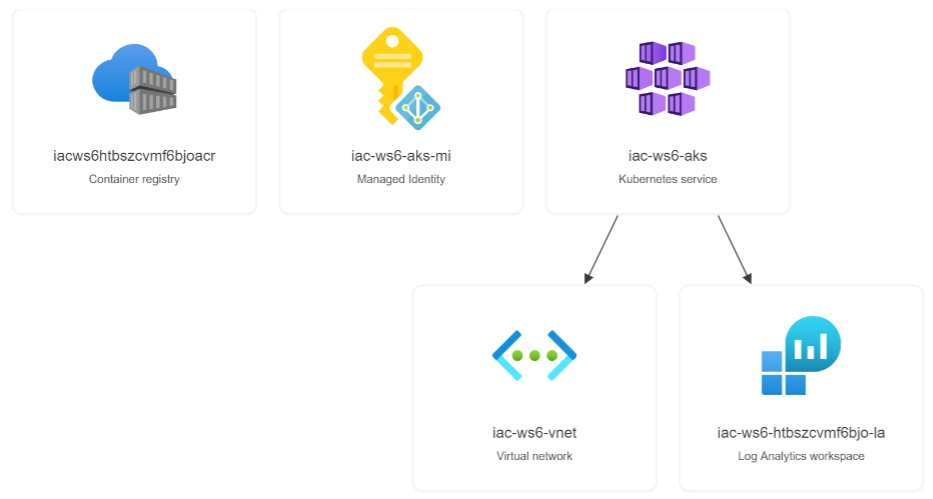
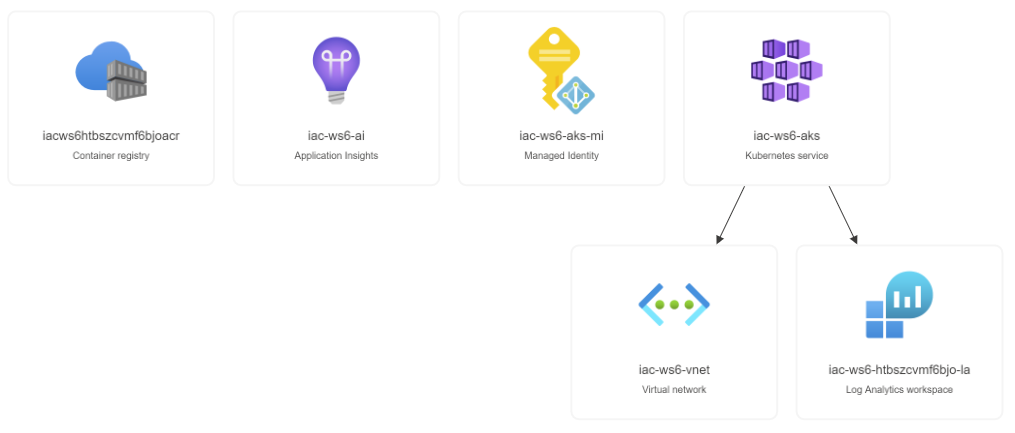
testing embedd youtube video

diff --git a/06-monitoring-options-in-aks/labs/lab-03/readme.md b/06-monitoring-options-in-aks/labs/lab-03/readme.md
@@ -1,18 +1,26 @@
 # lab-03 - monitoring AKS with Azure Monitor
 
 
+![container-insights](https://docs.microsoft.com/en-us/azure/azure-monitor/containers/media/container-insights-overview/azmon-containers-architecture-01.png)
 
 ## Goals
 
 * 
 
-## Task #1 - 
+## Task #1 (optional) - watch `How to monitor Kubernetes workloads with Azure Monitor for Containers` video from MS
+
+Here is a very good compressed walk through video covering the basic functionality of Container insights. I recommend you to watch it.
+
+<iframe width="560" height="315" src="https://www.youtube.com/embed/XEdwGvS2AwA?start=333&end=1160" title="YouTube video player" frameborder="0" allow="accelerometer; autoplay; clipboard-write; encrypted-media; gyroscope; picture-in-picture" allowfullscreen></iframe>
+
 
 
 ## Useful links
 
-* [prometheus-operator/kube-prometheus](https://github.com/prometheus-operator/kube-prometheus.git)
-
+* [Monitoring Azure Kubernetes Service (AKS) with Azure Monitor](https://docs.microsoft.com/en-us/azure/aks/monitor-aks?WT.mc_id=AZ-MVP-5003837)
+* [Container insights overview](https://docs.microsoft.com/en-us/azure/azure-monitor/containers/container-insights-overview?WT.mc_id=AZ-MVP-5003837)
+* [Enable Container insights](https://docs.microsoft.com/en-us/azure/azure-monitor/containers/container-insights-onboard?WT.mc_id=AZ-MVP-5003837)
+* [How to query logs from Container insights](https://docs.microsoft.com/en-us/azure/azure-monitor/containers/container-insights-log-query?WT.mc_id=AZ-MVP-5003837)
 ## Next: configure scraping of Prometheus metrics with Azure Monitor
 
 [Go to lab-04](../lab-04/readme.md)

diff --git a/06-monitoring-options-in-aks/labs/lab-01/readme.md b/06-monitoring-options-in-aks/labs/lab-01/readme.md
@@ -12,6 +12,7 @@ Here is the list of resources we will provision:
 * Private Virtual Network
 * Azure Container Registry (ACR)
 * Azure Log Analytics
+* Azure Application Insights
 * Azure Kubernetes Service (AKS)
 
 Our AKS cluster will fullfil the following requirements:
@@ -36,6 +37,7 @@ All `Bicep` templates are located under `infra` folder and are split into the fo
 |--|--|
 | acr.bicep | Azure Container Registry resource implementation |
 | aks.bicep | AKS implementation |
+| appInsights.bicep | Azure Application Insights |
 | attachACRToAKS.bicep | Contains code that attaches ACR to AKS instance |
 | vnet.bicep | Private Virtual Network implementation |
 | grantAksPermissions.bicep | Contains code that assign Network Contributor Role to AKS principal id |
